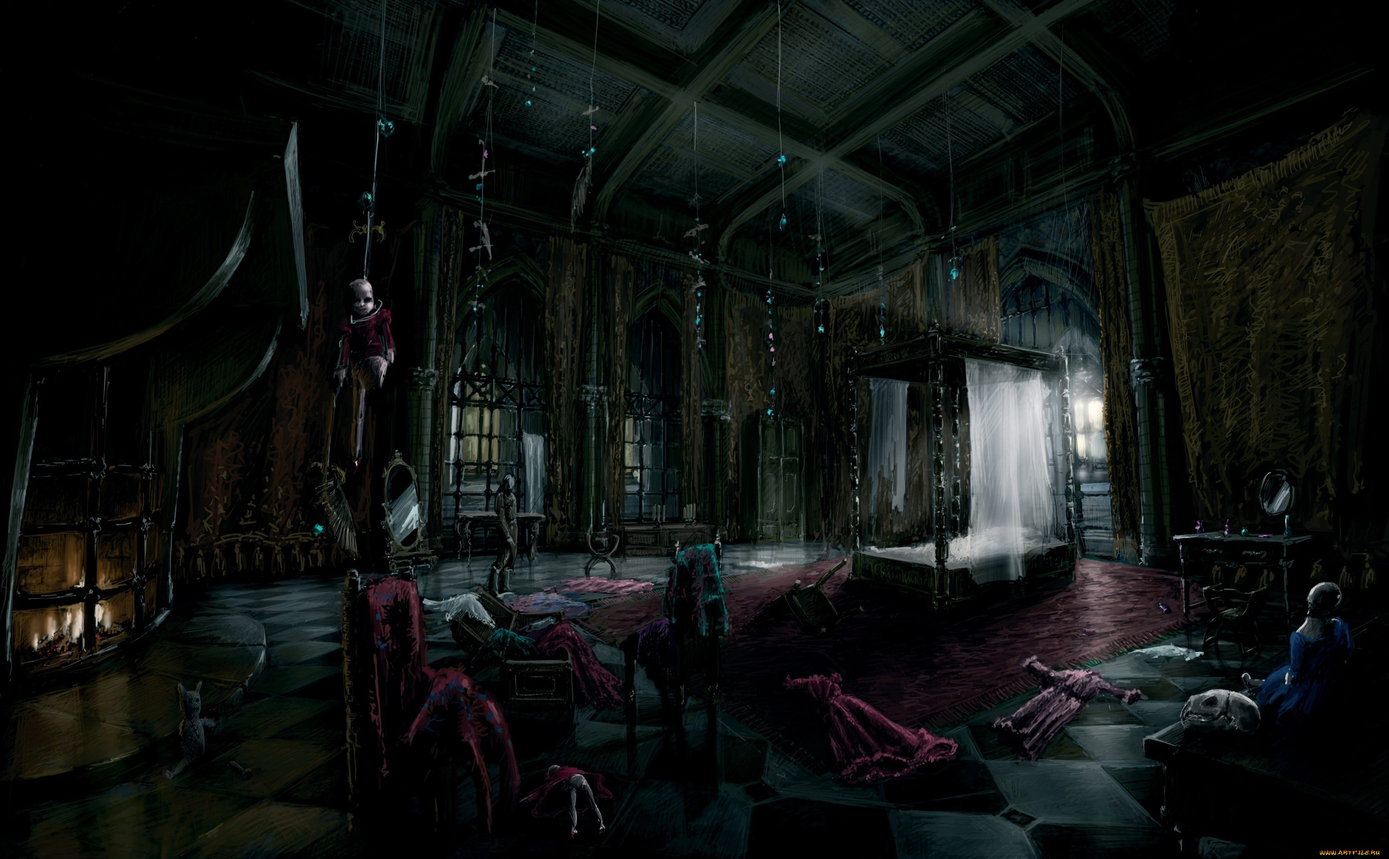
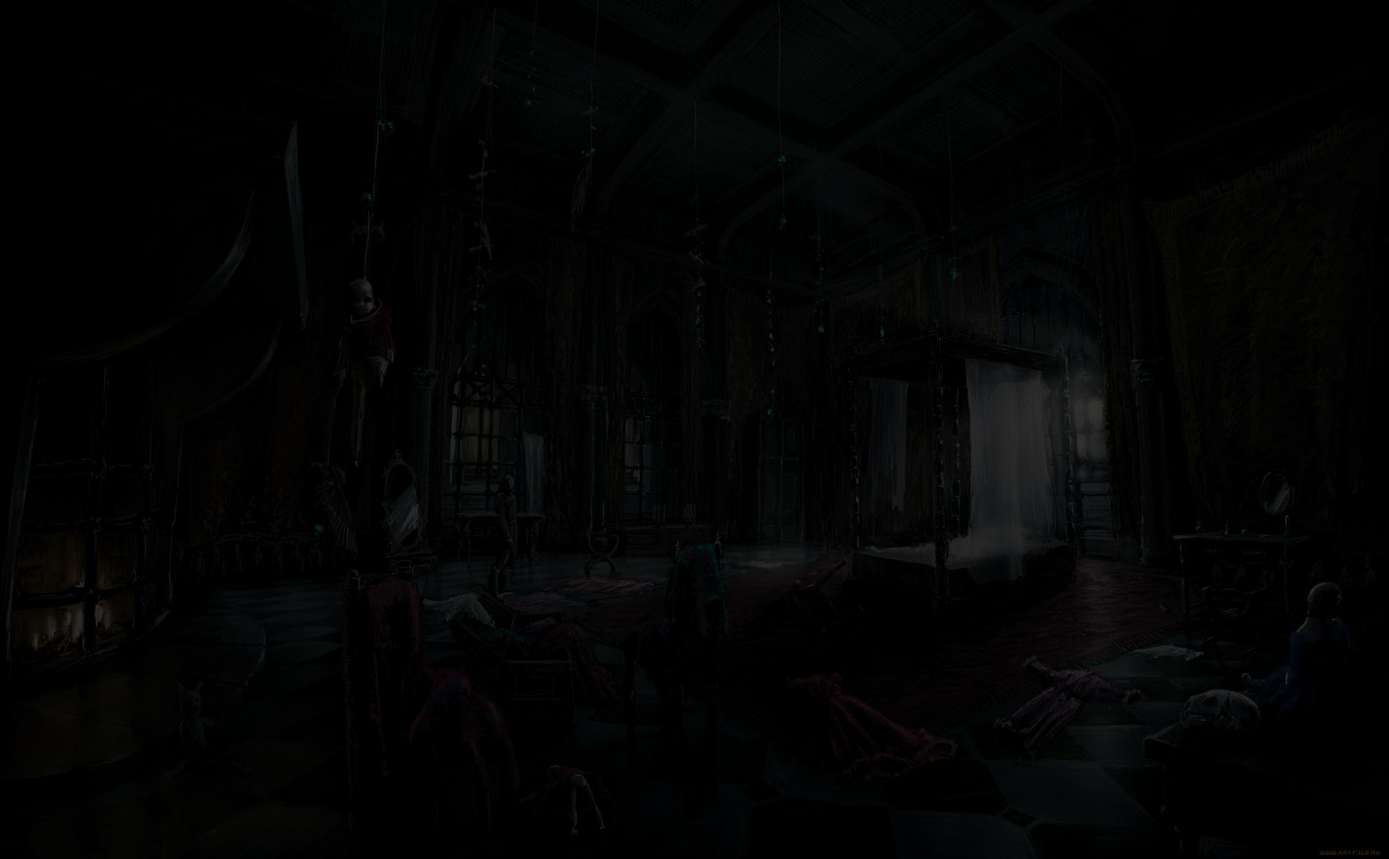
different opacity on pics

diff --git a/sessions/server.js b/sessions/server.js
@@ -1,0 +1,61 @@
+var express = require('express');
+var session = require('express-session');
+var bodyParser = require('body-parser');
+var app = express();
+
+app.set('views', __dirname + '/views');
+app.engine('html', require('ejs').renderFile);
+
+app.use(session({secret: 'ssshhhhh'}));
+app.use(bodyParser.json());
+app.use(bodyParser.urlencoded({extended: true}));
+
+var sess;
+
+app.get('/',function(req,res){
+sess = req.session;
+//Session set when user Request our app via URL
+if(sess.email) {
+/*
+* This line check Session existence.
+* If it existed will do some action.
+*/
+    res.redirect('/admin');
+}
+else {
+    res.render('index.html');
+}
+});
+
+app.post('/login',function(req,res){
+  sess = req.session;
+//In this we are assigning email to sess.email variable.
+//email comes from HTML page.
+  sess.email=req.body.email;
+  res.end('done');
+});
+
+app.get('/admin',function(req,res){
+  sess = req.session;
+if(sess.email) {
+res.write('<h1>Hello '+sess.email+'</h1>');
+res.end('<a href="+">Logout</a>');
+} else {
+    res.write('<h1>Please login first.</h1>');
+    res.end('<a href="+">Login</a>');
+}
+});
+
+app.get('/logout',function(req,res){
+req.session.destroy(function(err) {
+  if(err) {
+    console.log(err);
+  } else {
+    res.redirect('/');
+  }
+});
+
+});
+app.listen(3000,function(){
+console.log("App Started on PORT 3000");
+});

diff --git a/sessions/views/index.html b/sessions/views/index.html
@@ -1,0 +1,29 @@
+<html>
+<head>
+<title>Session Management in NodeJS using Express4.2</title>
+<script src="//ajax.googleapis.com/ajax/libs/jquery/2.1.1/jquery.min.js"></script> 
+<script>
+$(document).ready(function(){
+    var email,pass;
+    $("#submit").click(function(){
+        email=$("#email").val();
+        pass=$("#password").val();
+        /*
+        * Perform some validation here.
+        */
+        $.post("http://localhost:3000/login",{email:email,pass:pass},function(data){        
+            if(data==='done')           
+            {
+                window.location.href="/admin";
+            }
+        });
+    });
+});
+</script>
+</head>
+<body>
+<input type="text" size="40" placeholder="Type your email" id="email"><br />
+<input type="password" size="40" placeholder="Type your password" id="password"><br />
+<input type="button" value="Submit" id="submit">
+</body>
+</html>

diff --git a/config/orm.js b/config/orm.js
@@ -1,0 +1,22 @@
+var connection = require('../config/connection.js');
+
+var orm = {
+   
+    itemOne: function(tableInput, player_name, cb) {
+        var s = 'UPDATE ' + tableInput + "SET itemOne=true WHERE player_name = '" + player_name + "';";
+        connection.query(s, function(err, result) {
+            if (err) throw err;
+            cb(result);
+        });
+    },
+   
+    addPlayer: function(tableInput, player_name, password cb) {
+        var s = "INSERT INTO " + tableInput + " (player_name, password) VALUES ('" +player_name+ "',false);";
+        connection.query(s, function(err, result) {
+            if (err) throw err;
+            cb(result);
+        });
+    }
+};
+
+module.exports = orm;

diff --git a/config/connection.js b/config/connection.js
@@ -1,0 +1,17 @@
+var mysql = require('mysql');
+var connection = mysql.createConnection({
+    host: 'gtfo.website',
+    user: 'gtfo_project',
+    password: 'UCFb00tc@mp',
+    database: 'gtfo_db'
+});
+
+connection.connect(function(err) {
+    if (err) {
+        console.error('error connecting: ' + err.stack);
+        return;
+    }
+    console.log('connected as id ' + connection.threadId);
+});
+
+module.exports = connection;

diff --git a/index.html b/index.html
@@ -1,8 +1,9 @@
+
 <doctype HTML>
     <html>
 
     <head>
-        <title>GTFO (Get The Fellow Out)</title>
+        <title>GTFO - Get The Fellow Out!</title>
         <link rel="stylesheet" href="css/bootstrap.css" type="text/css">
         <link rel="stylesheet" href="css/style.css" type="text/css">
         <link rel="stylesheet" href="css/animate.css" type="text/css">

diff --git a/controllers/game_controller.js b/controllers/game_controller.js
@@ -1,0 +1,16 @@
+var express = require('express');
+var bodyParser = require('body-parser');
+var orm = require('../config/orm.js');
+var app = express();
+
+module.exports = function(app){
+
+	app.get('/', function(req, res){
+		res.render('home');
+	});
+
+	app.get('/game', function(req, res){
+		res.render('game');
+	});
+
+}
